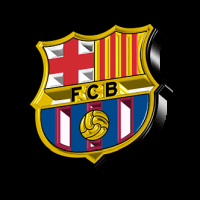
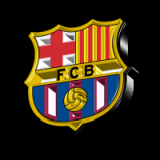
design part corrected

Changed region(s): [[0.125, 0.0938, 0.875, 0.75], [0.1562, 0.625, 0.3438, 0.75], [0.6875, 0.2188, 0.7188, 0.25]]

diff --git a/index.html b/index.html
@@ -21,27 +21,33 @@
 </head>
 
 <body>
+
+
     <!-- Header Start -->
     <header class=".container-fluid bg-black mb-5">
-        <section class="banner-area row d-flex align-items-center">
-            <div class="banner-img col-lg-3 text-center px-5">
+        <section
+            class="banner-area d-flex flex-column-reverse flex-sm-column-reverse flex-md-row flex-lg-row align-items-center">
+            <div class="banner-img text-end col-md-3 col-lg-3">
                 <img src="images/xavi-hernandez.png" class="img-fluid" alt="Xavi Hernandez as Barcelona Coach">
             </div>
-            <div class="banner-info col-lg-6 text-center p-5">
+            <div class="banner-info col-md-7 col-lg-7 text-center p-5">
                 <h1 class="title fw-bold mb-3">
                     Barca's Dream Five!
                 </h1>
                 <p class="text-white">
-                    Xavi is in no doubt about what he expects from his Barcelona squad this season. The club have backed him with over €150m worth of new faces during the summer window with Raphinha, Robert Lewandowski and Jules Kounde all arriving at the Camp Nou last month. Here is the all vital member of catalan team. Now besides Xavi you can select the best five of yours among them.
+                    Xavi is in no doubt about what he expects from his squad. Barcelona have backed him with over €150m
+                    worth of new faces during the summer window with Raphinha, Robert Lewandowski and Jules Kounde all
+                    arriving at the Camp Nou. Here is the all vital member of catalan team. Now besides Xavi you can
+                    select the best five of yours among them.
                 </p>
             </div>
-            <div class="banner-img col-lg-3 row-cols-2 d-flex d-sm-flex d-md-flex d-lg-block text-center">  
-                <img src="images/barcelona-emblem.png" class="emblem img-fluid align-items-sm-center" alt="">
+            <div class="banner-img col-md-2 col-lg-2 d-flex flex-column flex-sm-row flex-md-column text-center">
+                <img src="images/barcelona-emblem.png" class="emblem img-fluid" alt="">
                 <img src="images/barcelona-soccer-ball.png" class="ball img-fluid" alt="">
             </div>
         </section>
     </header>
-    <!-- Header End -->
+    <!-- Header End  row-cols-2 d-flex d-sm-flex d-md-flex d-lg-block-->
 
     <!-- Main Start -->
     <main class="container d-flex mb-5">
@@ -49,7 +55,7 @@
         <!-- Section Start -->
         <section class="main-area col-lg-9">
             <div class="players-section">
-                <div class="row row-cols-1 row-cols-md-3 g-4">
+                <div class="row row-cols-1 row-cols-md-2  g-4">
                     <div class="col">
                         <div class="card h-100 bg-black rounded-0">
                             <img src="images/ousmane-dembele.png" class="img-fluid card-img-top" alt="Ousmane Dembele">
@@ -72,7 +78,8 @@
                     </div>
                     <div class="col">
                         <div class="card h-100 bg-black rounded-0">
-                            <img src="images/robert-lewandowski.png" class="img-fluid card-img-top" alt="Robert Lewandowski">
+                            <img src="images/robert-lewandowski.png" class="img-fluid card-img-top"
+                                alt="Robert Lewandowski">
                             <div class="card-body">
                                 <h3 class="card-title">Robert Lewandowski</h3>
                                 <p class="card-text">36 Goals . 120 Assists</p>
@@ -142,7 +149,8 @@
                     </div>
                     <div class="col">
                         <div class="card h-100 bg-black rounded-0">
-                            <img src="images/andreas-christensen.png" class="img-fluid card-img-top" alt="Andreas Christensen">
+                            <img src="images/andreas-christensen.png" class="img-fluid card-img-top"
+                                alt="Andreas Christensen">
                             <div class="card-body">
                                 <h3 class="card-title">Andreas Christensen</h3>
                                 <p class="card-text">36 Goals . 120 Assists</p>
@@ -162,7 +170,8 @@
                     </div>
                     <div class="col">
                         <div class="card h-100 bg-black rounded-0">
-                            <img src="images/marc-andre-ter-stegen.png" class="img-fluid card-img-top" alt="Marc Andre Ter Stegen">
+                            <img src="images/marc-andre-ter-stegen.png" class="img-fluid card-img-top"
+                                alt="Marc Andre Ter Stegen">
                             <div class="card-body">
                                 <h3 class="card-title">Marc Andre Ter Stegen</h3>
                                 <p class="card-text">36 Goals . 120 Assists</p>
@@ -176,28 +185,59 @@
         <!-- Section End -->
 
         <!-- Aside Start -->
-        <aside class="col-lg-3">
-            <div class="dream-five">
-                <h2>Slected - V</h2>
-                <ol>
-                    <li>1</li>
-                    <li>2</li>
-                    <li>3</li>
-                    <li>4</li>
-                    <li>5</li>
+        <aside class="col-lg-3 mx-4">
+            <div class="dream-five bg-black p-4 mb-4">
+                <h2 class="text-center text-white">Selected - V</h2>
+                <hr>
+                <ol class="text-white fs-5 fw-light">
+                    <li class="mb-3">Ousmane Dembele</li>
+                    <li class="mb-3">Sergio Busquets</li>
+                    <li class="mb-3">Jules Kounde</li>
+                    <li class="mb-3">Gerard Pique</li>
+                    <li class="mb-3">Robert Lewandowski</li>
                 </ol>
             </div>
-            <div class="budget-calculator">
-                <h2>Budget</h2>
+            <div class="budget-calculator bg-black p-4">
+                <h2 class="text-center text-white">Budget</h2>
+                <hr>
+                <div>
+                    <div class="row g-3 align-items-center">
+                        <div class="col-4">
+                            <label for="perPlayer" class="text-white">Per Player</label>
+                        </div>
+                        <div class="col-5">
+                            <input type="text" id="perPlayer" class="per-player-field">
+                        </div>
+                        <button>Calculate</button>
+                        <div class="col-8">
+                            <label for="playerExpences" class="text-white">Player Expences</label>
+                        </div>
+                        <div class="col-4">
+                            <h3 id="playerExpences" class="player-expences-field">$<span>5000</span></h3>
+                        </div>
+                        <div class="col-4">
+                            <label for="manager" class="text-white">Manager</label>
+                        </div>
+                        <div class="col-5">
+                            <input type="text" id="manager" class="manager-field">
+                        </div>
+                        <div class="col-4">
+                            <label for="coach" class="text-white">Coach</label>
+                        </div>
+                        <div class="col-5">
+                            <input type="text" id="coach" class="coach-field">
+                        </div>
+                    </div>
+                </div>
             </div>
         </aside>
         <!-- Aside End -->
     </main>
     <!-- Main End -->
 
-    
+
     <footer>
-        <section class="footer-area py-5">
+        <section class="footer-area mt-5">
             <hr class="border border-1">
             <p class="text-center text-white">Copyright @ 2022 All Rights Reserved.</p>
         </section>

diff --git a/styles/style.css b/styles/style.css
@@ -1,4 +1,6 @@
 body{
+    margin: 0;
+    padding: 0;
     background-color: #151515;
 }
 
@@ -6,8 +8,12 @@ body{
     font-size: 68px;
     color: orangered;
 }
+hr{
+    color: orangered;
+    margin-bottom: 30px;
+}
 .card{
-    border: 1px solid gray;
+    border: 1px solid orangered;
 }
 
 .emblem{
@@ -15,4 +21,8 @@ body{
 }
 
 .ball{
+}
+
+.per-player-field{
+    border: 2px solid orangered;
 }
